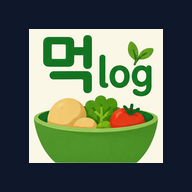
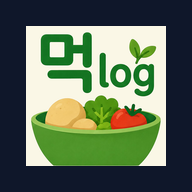
v0.1.9: PWA/스플래시 아이콘 안전 여백 73%

Changed region(s): [[0.125, 0.125, 0.875, 0.875], [0.375, 0.5, 0.4062, 0.5312]]

diff --git a/src/pages/SettingsPage.tsx b/src/pages/SettingsPage.tsx
@@ -361,7 +361,7 @@ export default function SettingsPage() {
             개인정보 처리방침 · 서비스 안내
           </Link>
         </p>
-        <p className="text-[11px] text-slate-600">먹로그 v0.1.8</p>
+        <p className="text-[11px] text-slate-600">먹로그 v0.1.9</p>
       </section>
     </div>
   );